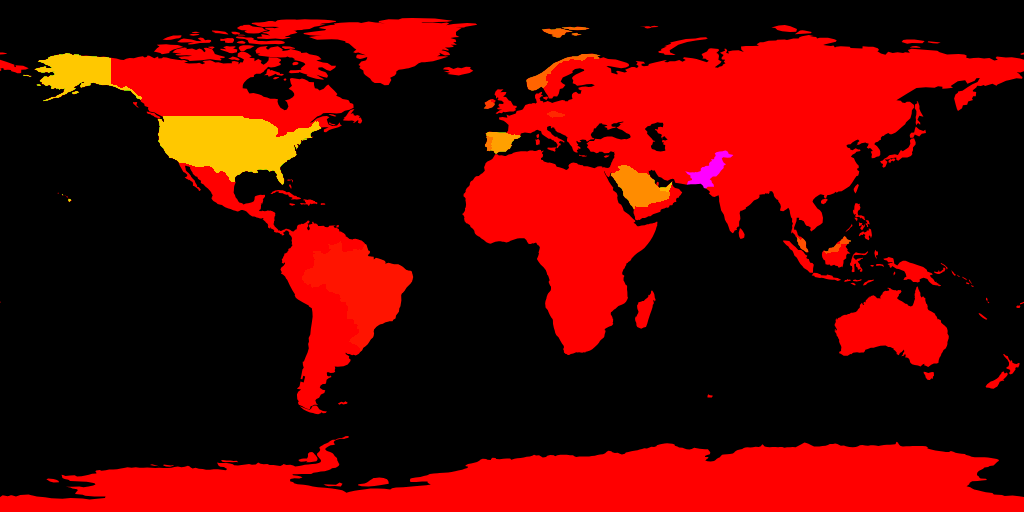
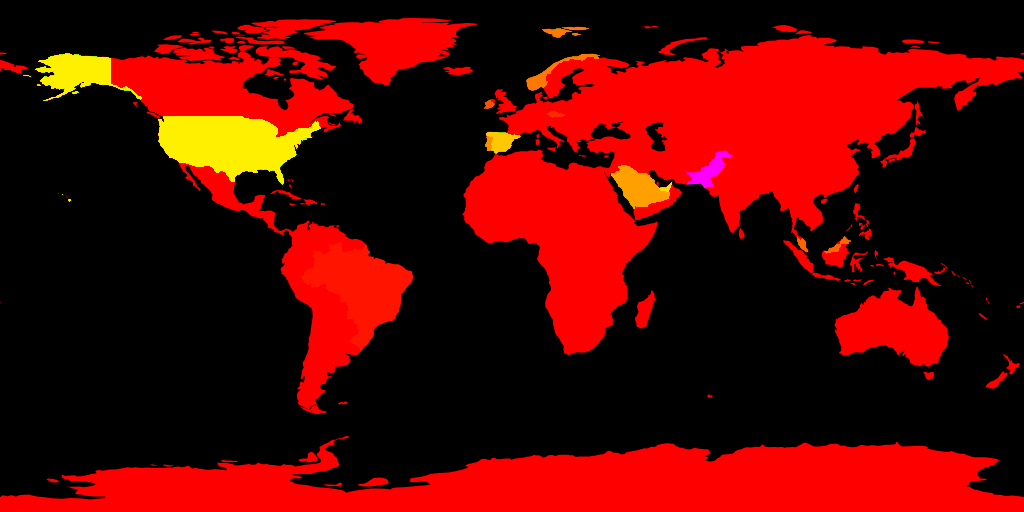
Add Singapore and Hong Kong to the client map
Two more client rows (Surplus Alliance in Hong Kong; Asia Pacific Dental, Zen Sea Yacht
and J Hair Salon in Singapore), so the count becomes 12 in the title, og:title and hero
stat; the social card line follows the rows.

Neither place is in the 110m world atlas, and both would be under a pixel in the
1024x512 mask anyway, so make-assets.mjs now accepts a name it can only find in the 50m
atlas and leaves it unfilled. The globe still draws its arc, pin and label.

diff --git a/index.html b/index.html
@@ -3,7 +3,7 @@
 <head>
   <meta charset="utf-8">
   <meta name="viewport" content="width=device-width, initial-scale=1, viewport-fit=cover">
-  <title>Syed Muhammad Hassaan — AI Engineer | Clients in 10 Countries</title>
+  <title>Syed Muhammad Hassaan — AI Engineer | Clients in 12 Countries</title>
   <meta name="description" content="AI engineer in Karachi, co-founder of Jordy and founder of Zao Fi. I build AI products and the platforms around them for clients across Europe, the Gulf, Asia and the Americas. Production systems, not demos.">
   <meta name="theme-color" content="#05060a">
   <meta name="color-scheme" content="dark">
@@ -11,7 +11,7 @@
 
   <meta property="og:type" content="website">
   <meta property="og:site_name" content="Syed Muhammad Hassaan">
-  <meta property="og:title" content="Syed Muhammad Hassaan — AI Engineer | Clients in 10 Countries">
+  <meta property="og:title" content="Syed Muhammad Hassaan — AI Engineer | Clients in 12 Countries">
   <meta property="og:description" content="AI engineer, co-founder of Jordy and founder of Zao Fi. Telehealth, AI sales tools, voice agents and bilingual platforms, built for clients across Europe, the Gulf, Asia and the Americas.">
   <meta property="og:url" content="https://brxerq.github.io/app/">
   <meta property="og:image" content="https://brxerq.github.io/app/assets/img/og.jpg">
@@ -130,7 +130,7 @@
         </div>
 
         <dl class="readouts hero__stats">
-          <div class="readout"><dt>client countries</dt><dd><span data-count="10">10</span></dd></div>
+          <div class="readout"><dt>client countries</dt><dd><span data-count="12">12</span></dd></div>
           <div class="readout"><dt>companies founded or co-founded</dt><dd><span data-count="2">2</span></dd></div>
           <div class="readout"><dt>automation runs in 90 days</dt><dd><span data-count="4500" data-format="int">4,500</span>+</dd></div>
           <div class="readout"><dt>voice-agent booking accuracy</dt><dd><span data-count="95">95</span>%</dd></div>
@@ -163,9 +163,17 @@
         </header>
 
         <ol class="countries" aria-label="Where my clients are">
+          <li class="step country" data-country="Hong Kong" data-lat="22.32" data-lon="114.17">
+            <span class="country__n" aria-hidden="true"></span><h3>Hong Kong</h3>
+            <p>Surplus Alliance: the corporate site for an investment holding company that spans trading, technology, manufacturing and real estate.</p>
+          </li>
           <li class="step country" data-country="Malaysia" data-lat="1.55" data-lon="110.35">
             <span class="country__n" aria-hidden="true"></span><h3>Malaysia</h3>
             <p>Quest Marketing, Kuching: I led the build of an AI sales CRM that shipped on Google Play. Malaysia is also where I studied.</p>
+          </li>
+          <li class="step country" data-country="Singapore" data-lat="1.35" data-lon="103.82">
+            <span class="country__n" aria-hidden="true"></span><h3>Singapore</h3>
+            <p>Websites for Asia Pacific Dental, Zen Sea Yacht and J Hair Salon, with booking and enquiry flows.</p>
           </li>
           <li class="step country" data-country="United Arab Emirates" data-lat="25.2" data-lon="55.27">
             <span class="country__n" aria-hidden="true"></span><h3>UAE</h3>
